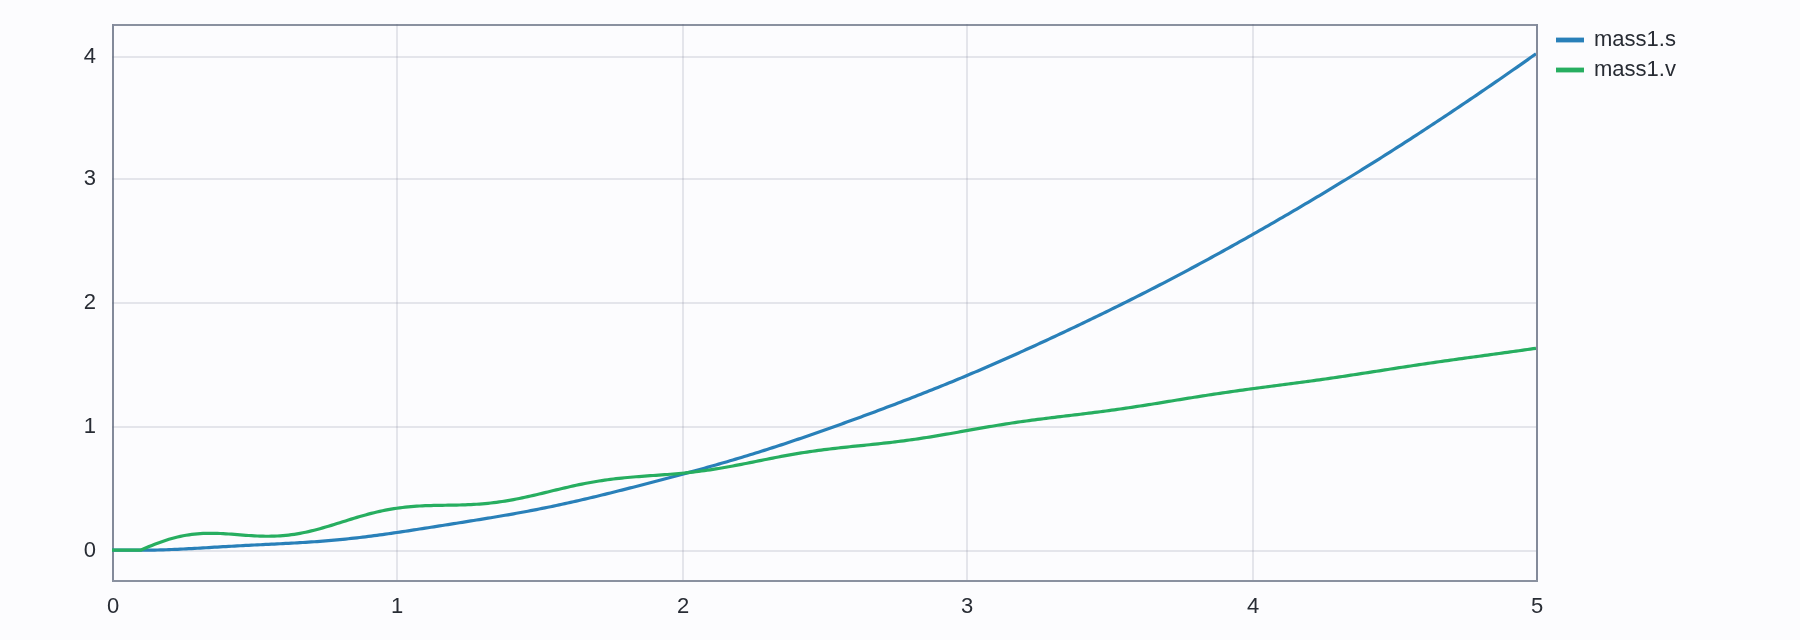
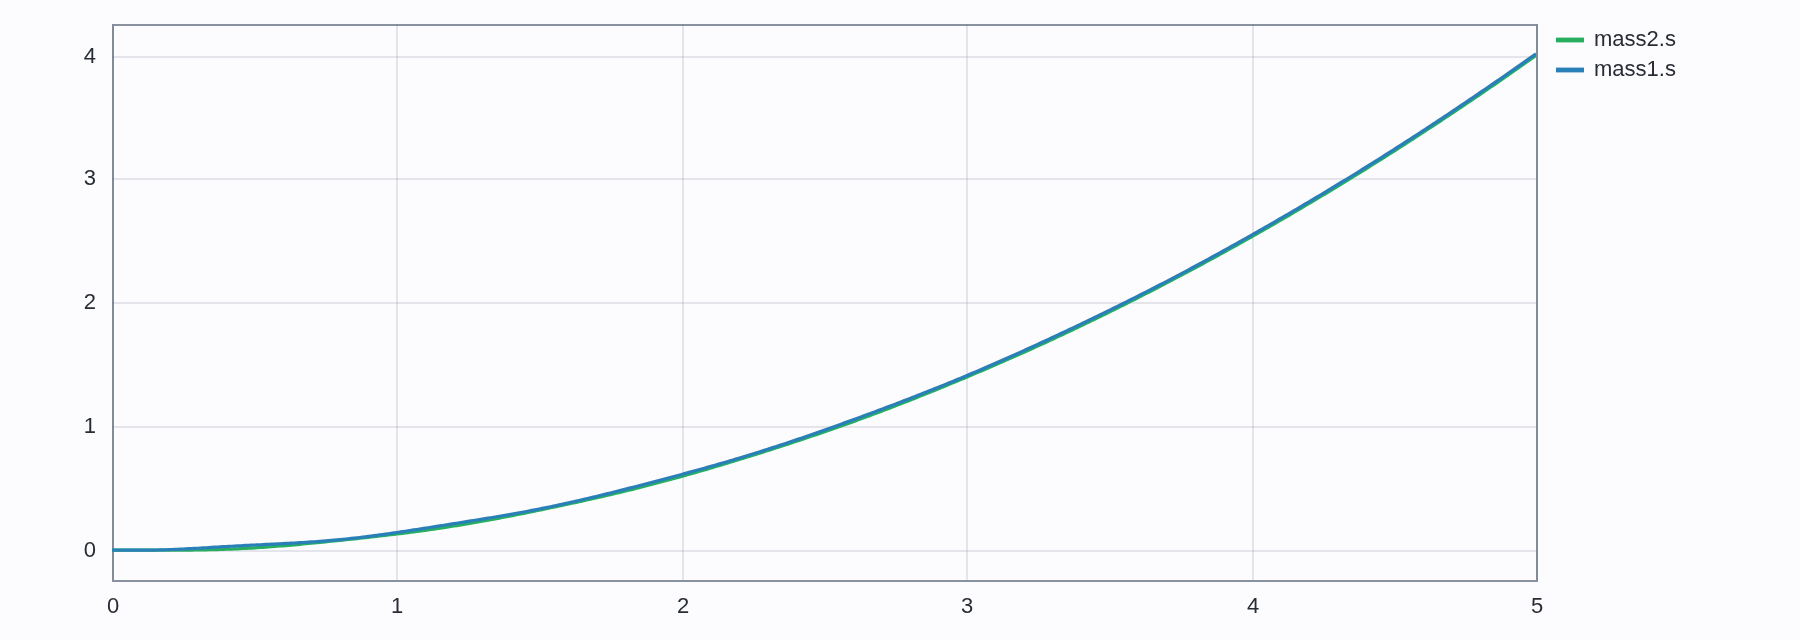
Render the Help screenshot for real, and plot both masses
0.3.4's docs/images/help.png was 4 KB of empty background. The panel was extracted
from the Help modal inside the app page, where Obsidian's modal CSS and the tab strip
keep an inactive panel unpainted even after its class and inline display are forced.
It is now rendered in a page of its own, from the panel's markup, with the same
stylesheets.

The generator refuses to write an image under 12 KB now: a blank capture is a failure
rather than a screenshot, and that guard is what caught this one. Two other faults
went with it -- a CSS zoom used to sharpen DOM captures, which moved the box out from
under capturePage and captured 980x848 of nothing; and the order of the scenes, since
loading the Help page navigates away from the app page.

The plot now shows both masses' positions rather than the example's default
position-and-velocity: the README's point about this model is that the pair drifts
while the GAP between them settles, which is only visible with mass1.s and mass2.s
both on the plot. The caption says which traces are shown.

diff --git a/scripts/readme-scenes.ts b/scripts/readme-scenes.ts
@@ -98,8 +98,12 @@ window.__scenePlot = (data) => {
     const ctx = canvas.getContext("2d")!;
     const styles: Record<string, { color: string; visible: boolean }> = {};
     const colours = ["#c0392b", "#2980b9", "#27ae60", "#8e44ad"];
+    // The two POSITIONS rather than the example's default position-and-velocity: the
+    // point of this model is that the pair drifts while the gap between them settles,
+    // and that is only visible with both masses on the plot.
+    const visible = ["mass1.s", "mass2.s"];
     data.result.series.forEach((s, i) => {
-      styles[s.name] = { color: colours[i % colours.length], visible: data.example.series.includes(s.name) };
+      styles[s.name] = { color: colours[i % colours.length], visible: visible.includes(s.name) };
     });
     drawPlot(ctx, width, height, data.result as never, {
       styles,
@@ -120,10 +124,17 @@ window.__scenePlot = (data) => {
   }
 };
 
-/** The Help window's connection section. */
+/**
+ * The Help window's connection section, as markup for its own page.
+ *
+ * Returns HTML rather than a box, and the runner renders it in a page of its own.
+ * Extracting the panel inside the app page does not work: Obsidian's modal CSS and
+ * the tab strip keep an inactive panel unpainted even with its `display` forced, so
+ * the capture came out blank twice — 3 KB of nothing, which is how a blank image
+ * reached the README once before a size check caught it.
+ */
 window.__sceneHelp = () => {
   try {
-    const host = document.getElementById("help")!;
     const modal = new HelpModal(
       { vault: {}, workspace: { getLeavesOfType: () => [] } } as never,
       {
@@ -141,9 +152,8 @@ window.__sceneHelp = () => {
     ) as HTMLElement | undefined;
     if (!panel) throw new Error("the connection panel was not rendered");
     panel.classList.remove("is-hidden");
-    host.appendChild(panel);
-    const r = panel.getBoundingClientRect();
-    return { x: Math.floor(r.left) - 12, y: Math.floor(r.top) - 12, width: Math.ceil(r.width) + 24, height: Math.ceil(r.height) + 24 };
+    panel.style.display = "block";
+    return { html: panel.outerHTML };
   } catch (err) {
     return fail(err);
   }

diff --git a/CHANGELOG.md b/CHANGELOG.md
@@ -5,6 +5,28 @@ Notable changes to Modelica Studio. The format follows
 [semantic versioning](https://semver.org/spec/v2.0.0.html). While the major
 version is 0, a minor bump may include changes that are not backward compatible.
 
+## [0.3.5] — 2026-10-14
+
+### Fixed
+
+- **The Help screenshot shipped blank.** 0.3.4's `docs/images/help.png` was 4 KB of
+  empty background: the panel was extracted from the Help modal inside the app page,
+  where Obsidian's modal CSS and the tab strip keep an inactive panel unpainted even
+  after its class and inline `display` are forced. It is now rendered in a page of
+  its own, from the panel's markup, with the same stylesheets — and the generator
+  **refuses to write an image under 12 KB**, because a blank capture is a failure
+  rather than a screenshot. That guard is what caught this one.
+
+  Two other generator faults were fixed on the way: a CSS `zoom` used to sharpen DOM
+  captures (it moved the box out from under `capturePage`, capturing 980x848 of
+  nothing), and the order of the scenes (loading the Help page navigates away from
+  the app page, so the canvas scenes must run first).
+
+- **The plot screenshot now shows both masses' positions** rather than the example's
+  default position-and-velocity. The README's point about this model is that the pair
+  drifts while the *gap* between them settles — which is only visible with `mass1.s`
+  and `mass2.s` both on the plot. The caption says which traces are shown.
+
 ## [0.3.4] — 2026-10-14
 
 ### Changed

diff --git a/README.md b/README.md
@@ -43,7 +43,7 @@ releases and updates it for you. The plugin is pre-1.0, so the version numbers a
    Settings → Community plugins.
 
 To pin a version instead of tracking the latest, use BRAT's **frozen** option and
-name the release, for example `0.3.4`.
+name the release, for example `0.3.5`.
 
 BRAT reports a mismatch if a release's tag, its name and the version inside the
 released `manifest.json` disagree. They are kept identical here on purpose, so an
@@ -106,9 +106,10 @@ names the run, and the cursor reads every visible trace at the instant under it.
 
 ![The result of that model, plotted](docs/images/plot.png)
 
-*A step force on the first mass at t = 0.1 s. Nothing is anchored, so the pair
-drifts — position curving upward — while the spring-damper between them rings and
-settles: that is the ripple in the first second. Both curves are the numbers
+*The two masses' positions, with a step force on the first at t = 0.1 s. Nothing is
+anchored, so the pair drifts together — both curves bend upward — while the spring
+and damper between them ring and settle: that is the wiggle in the first second, and
+the gap between the curves is the spring's extension. Both curves are the numbers
 OpenModelica returned; nothing in this README is redrawn by hand.*
 
 A **sweep** runs the model once per value of one parameter and overlays the results
